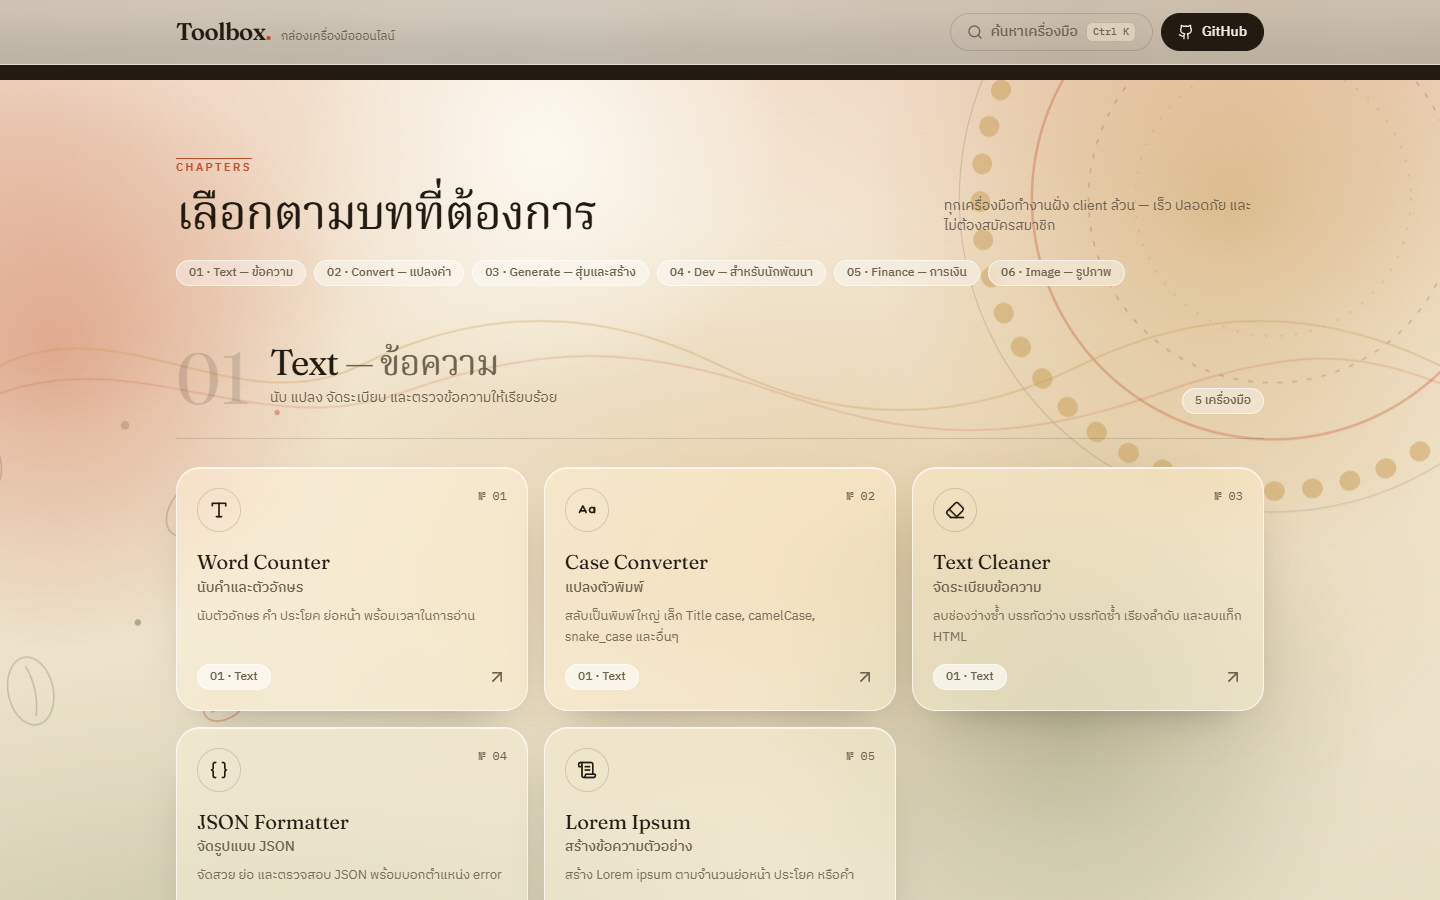
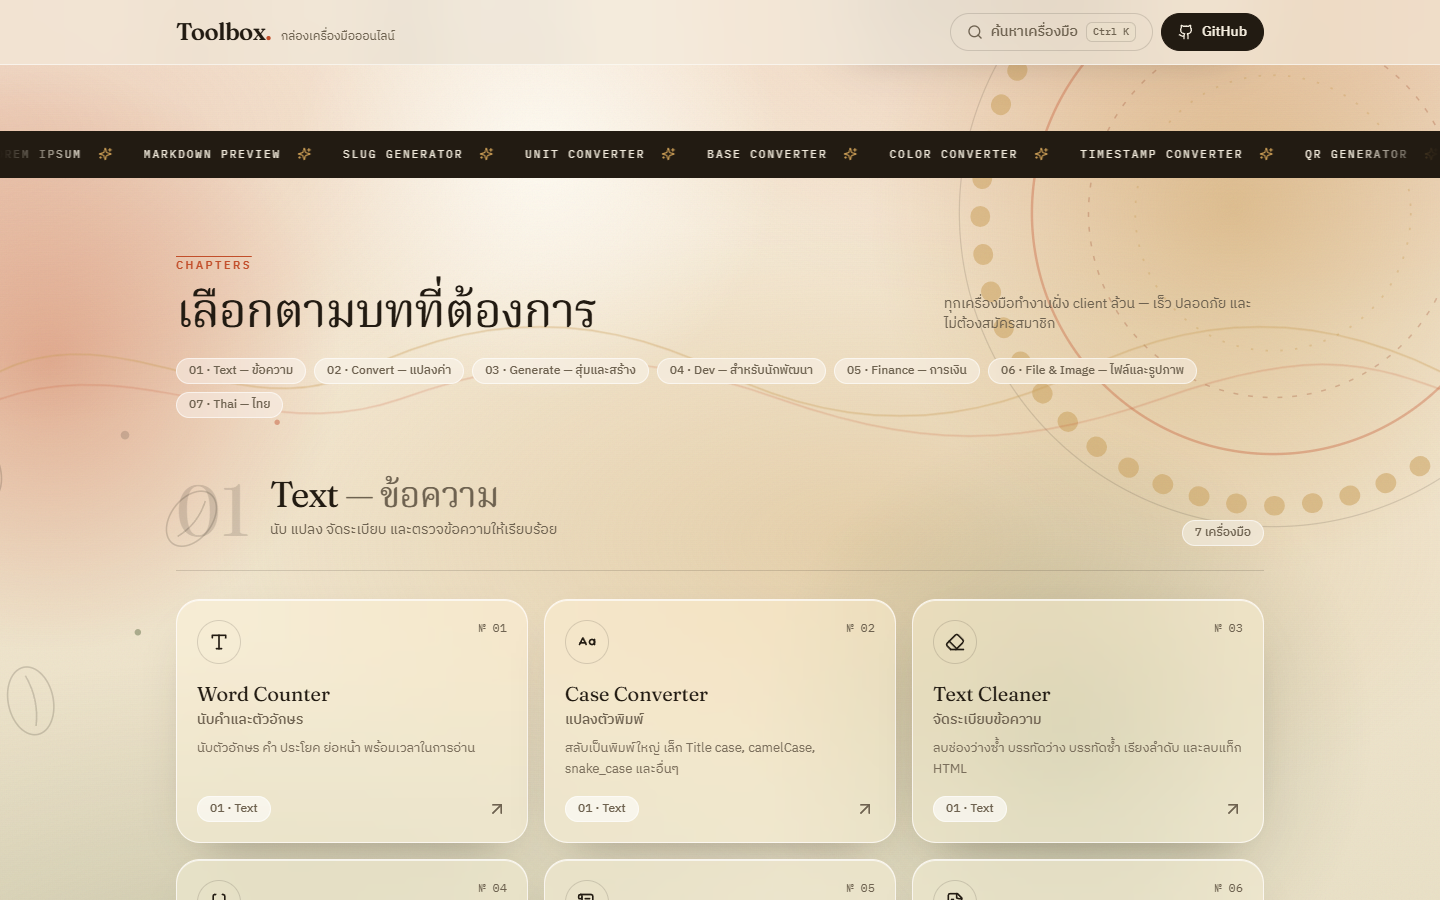
docs: README refresh - 42 tools / 7 chapters / PWA
Updated counts, chapter table, full tool list, PWA sections and fresh real screenshots.

diff --git a/README.md b/README.md
@@ -4,7 +4,7 @@
 
 ### Everyday tools, ครบจบในกล่องเดียว
 
-**26 เครื่องมือใช้บ่อยสำหรับงานประจำวันและสาย dev** — ทำงานในเบราว์เซอร์ของคุณ 100%
+**42 เครื่องมือใช้บ่อย — งานประจำวัน สาย dev และสายไทย** — ทำงานในเบราว์เซอร์ของคุณ 100%
 ไม่มีเซิร์ฟเวอร์ · ไม่มีบัญชี · ไม่มี tracking · ข้อมูลไม่ออกจากเครื่อง
 
 [![Deploy](https://github.com/Poshzz/toolbox/actions/workflows/deploy.yml/badge.svg?branch=main)](https://github.com/Poshzz/toolbox/actions/workflows/deploy.yml)
@@ -14,6 +14,7 @@
 ![Vite](https://img.shields.io/badge/Vite-6-646cff?style=flat-square&logo=vite&logoColor=white)
 ![Tailwind CSS](https://img.shields.io/badge/Tailwind_CSS-v4-38bdf8?style=flat-square&logo=tailwindcss&logoColor=white)
 ![Privacy](https://img.shields.io/badge/privacy-100%25_client--side-65724b?style=flat-square)
+![PWA](https://img.shields.io/badge/PWA-offline_ready-65724b?style=flat-square)
 ![License: MIT](https://img.shields.io/badge/License-MIT-yellow.svg?style=flat-square)
 
 <br/>
@@ -36,21 +37,23 @@
 | ⌨ **Keyboard-first** | กด `Ctrl` + `K` ค้นหาเครื่องมือได้จากทุกหน้า |
 | 🇹🇭 **ไทย–อังกฤษ** | UI สองภาษา ทั้งชื่อเครื่องมือและคำอธิบาย |
 | 🧩 **One-file tools** | เพิ่มเครื่องมือใหม่ = 1 ไฟล์ + 1 entry — ที่เหลืออัปเดตอัตโนมัติ |
+| 📲 **PWA / Offline** | ติดตั้งเป็นแอปได้ และใช้ต่อได้แม้ไม่มีเน็ต — Service Worker แคชเฉพาะไฟล์ของเว็บเอง |
 
-## 🧰 เครื่องมือ — 26 tools · 6 chapters
+## 🧰 เครื่องมือ — 42 tools · 7 chapters
 
 | # | Chapter | เครื่องมือ | |
 |:-:|:--|:--|:-:|
-| 01 | **Text** · ข้อความ | Word Counter · Case Converter · Text Cleaner · JSON Formatter · Lorem Ipsum | 5 |
+| 01 | **Text** · ข้อความ | Word Counter · Case Converter · Text Cleaner · JSON Formatter · Lorem Ipsum · Markdown Preview · Slug Generator | 7 |
 | 02 | **Convert** · แปลงค่า | Unit Converter · Base Converter · Color Converter · Timestamp Converter | 4 |
-| 03 | **Generate** · สุ่มและสร้าง | QR Generator · Password Generator · UUID Generator · Random Picker | 4 |
-| 04 | **Dev** · สำหรับนักพัฒนา | Base64 · Hash Generator · URL Tools · JWT Decoder · Diff Checker · Regex Tester | 6 |
-| 05 | **Finance** · การเงิน | Percentage Calculator · Interest Calculator · Bill Split · Loan Calculator | 4 |
-| 06 | **Image** · รูปภาพ | Image Resizer · Image Converter · Image Info | 3 |
-| | | **รวม** | **26** |
+| 03 | **Generate** · สุ่มและสร้าง | QR Generator · Password Generator · UUID Generator · Random Picker · Color Palette · Gradient Generator · Dice Roller | 7 |
+| 04 | **Dev** · สำหรับนักพัฒนา | Base64 · Hash Generator · URL Tools · JWT Decoder · Diff Checker · Regex Tester · Cron Parser · HTML Entity · JSON ↔ CSV · JSON ↔ YAML · Code Formatter | 11 |
+| 05 | **Finance** · การเงิน | Percentage Calculator · Interest Calculator · Bill Split · Loan Calculator · VAT Calculator | 5 |
+| 06 | **File & Image** · ไฟล์และรูปภาพ | Image Resizer · Image Converter · Image Info · Favicon Generator · PDF Merge & Split | 5 |
+| 07 | **Thai** · ไทย | Thai Date & Era · Thai Numbers · Thai ID Checker | 3 |
+| | | **รวม** | **42** |
 
 <details>
-<summary><b>▸ ดูรายละเอียดเครื่องมือทั้ง 26 ตัว — Full list</b></summary>
+<summary><b>▸ ดูรายละเอียดเครื่องมือทั้ง 42 ตัว — Full list</b></summary>
 
 <br/>
 
@@ -60,6 +63,8 @@
 - **Text Cleaner** — จัดระเบียบข้อความ เช่น ลบช่องว่างซ้ำ บรรทัดว่าง
 - **JSON Formatter** — จัดสวย/ย่อ/ตรวจสอบ JSON พร้อมบอกตำแหน่ง error
 - **Lorem Ipsum** — สร้างข้อความตัวอย่างสำหรับงานออกแบบ
+- **Markdown Preview** — เขียน Markdown พร้อมพรีวิวสด และก๊อป HTML ได้
+- **Slug Generator** — แปลงข้อความเป็น slug รองรับภาษาไทย
 
 **02 · Convert — แปลงค่า**
 - **Unit Converter** — แปลงหน่วยวัด ความยาว น้ำหนัก อุณหภูมิ ฯลฯ
@@ -72,6 +77,9 @@
 - **Password Generator** — สุ่มรหัสผ่านที่ปลอดภัยตามเงื่อนไข
 - **UUID Generator** — สร้าง UUID v4
 - **Random Picker** — สุ่มเลข เต๋า จับฉลาก พร้อมช่วงตัวเลขกว้าง ๆ
+- **Color Palette** — สร้างชุดสีกลมกลืน ล็อกสีที่ชอบได้
+- **Gradient Generator** — สร้าง CSS gradient พร้อมโค้ดไปใช้ได้เลย
+- **Dice Roller** — ทอยลูกเต๋า d4–d20 หลายลูก และโยนหัวก้อย
 
 **04 · Dev — สำหรับนักพัฒนา**
 - **Base64** — เข้ารหัส/ถอดรหัส Base64 (รองรับ Unicode)
@@ -80,17 +88,30 @@
 - **JWT Decoder** — ถอดและตรวจ JWT (HS256) ในเบราว์เซอร์
 - **Diff Checker** — เทียบข้อความทีละบรรทัด แบบ side-by-side
 - **Regex Tester** — ทดสอบ Regex พร้อมไฮไลต์ผลที่ตรง
+- **Cron Parser** — อธิบาย cron เป็นภาษาคน + เวลารันถัดไป 5 ครั้ง
+- **HTML Entity** — เข้ารหัส/ถอดรหัส HTML entities พร้อมตารางอ้างอิง
+- **JSON ↔ CSV** — แปลงสองทาง พร้อม BOM สำหรับ Excel
+- **JSON ↔ YAML** — แปลงสองทาง (subset มาตรฐานที่ใช้บ่อย)
+- **Code Formatter** — จัดสวย/ย่อ SQL · XML · CSS
 
 **05 · Finance — การเงิน**
 - **Percentage Calculator** — คำนวณเปอร์เซ็นต์ทุกรูปแบบที่ใช้บ่อย
 - **Interest Calculator** — ดอกเบี้ยเงินฝาก/เงินกู้ ทั้งแบบง่ายและทบต้น
 - **Bill Split** — หารบิลพร้อมทิป แสดงยอดต่อคน
 - **Loan Calculator** — ค่างวดผ่อนต่อเดือนจากยอดเงินและดอกเบี้ย
+- **VAT Calculator** — บวก/ถอด VAT พร้อมปัดสตางค์ถูกต้อง
 
-**06 · Image — รูปภาพ**
+**06 · File & Image — ไฟล์และรูปภาพ**
 - **Image Resizer** — ย่อ/ขยายรูปในเบราว์เซอร์ ไม่มีการอัปโหลด
 - **Image Converter** — แปลงไฟล์ PNG / JPEG / WebP
 - **Image Info** — ขนาด มิติ และข้อมูลไฟล์ของรูป
+- **Favicon Generator** — อัปรูปเดียวได้ favicon ครบขนาด + ไฟล์ .ico
+- **PDF Merge & Split** — รวม/แยกหน้า PDF ในเครื่อง ไม่มีการอัปโหลด
+
+**07 · Thai — ไทย**
+- **Thai Date & Era** — แปลง พ.ศ.↔ค.ศ. นับวัน อายุ วันที่ไทยแบบเต็ม
+- **Thai Numbers** — ตัวเลขเป็นคำอ่านไทย · เลขไทย · บาท/สตางค์
+- **Thai ID Checker** — ตรวจความถูกต้องเลขบัตรประชาชน 13 หลัก
 
 </details>
 
@@ -98,7 +119,7 @@
 
 | เลือกตามบท — Chapters | หน้าเครื่องมือ — Tool page |
 |:--:|:--:|
-| <img src=".github/assets/chapters.png" alt="หน้ารวมบทและเครื่องมือ" width="100%" /> | <img src=".github/assets/tool-page.png" alt="หน้า JSON Formatter" width="100%" /> |
+| <img src=".github/assets/chapters.png" alt="หน้ารวมบทและเครื่องมือ" width="100%" /> | <img src=".github/assets/tool-page.png" alt="หน้า Thai Date & Era" width="100%" /> |
 
 ## ⚙ Tech Stack
 
@@ -107,8 +128,9 @@
 | **Core** | React 19 · TypeScript 5.7 · Vite 6 |
 | **Styling** | Tailwind CSS v4 + ธีมกาแฟที่ออกแบบเอง (glass + parallax engine เขียนสด) |
 | **Routing** | react-router-dom v7 — HashRouter ใช้ได้ทุก subpath ของ GitHub Pages |
-| **Libraries** | qrcode · lucide-react · Web Crypto API · Canvas API |
+| **Libraries** | qrcode · pdf-lib · lucide-react · Web Crypto API · Canvas API |
 | **Fonts** | Self-hosted ทั้งหมด — Fraunces · IBM Plex · Noto Serif Thai (SIL OFL) ไม่มี request ไป Google |
+| **PWA / Offline** | vite-plugin-pwa (Workbox) — ติดตั้งเป็นแอป และใช้งานได้แม้ออฟไลน์ |
 | **Backend** | ไม่มี. ศูนย์. Zero. 🎉 |
 | **Deploy** | GitHub Actions → GitHub Pages (อัตโนมัติทุก push ขึ้น `main`) |
 
@@ -121,10 +143,10 @@ src/
 ├── data/
 │   ├── tools.ts        # registry: CHAPTERS + TOOLS (จุดเดียวที่ต้องแก้เวลาเพิ่มเครื่องมือ)
 │   └── site.ts         # ชื่อเว็บ + repo URL
-├── lib/                # utils · md5 (เขียนเอง verify เทียบ node:crypto) · diff (LCS)
+├── lib/                # ตรรกะแยกไฟล์ 18 ไฟล์ — md5 · diff · thai-date · thai-numbers · vat · minimd · ico · pdf · cron · …
 └── pages/
     ├── Home.tsx
-    └── tools/          # 1 ไฟล์ต่อ 1 เครื่องมือ (lazy-load ทั้งหมด)
+    └── tools/          # 1 ไฟล์ต่อ 1 เครื่องมือ — 42 ไฟล์ (lazy-load ทั้งหมด)
 ```
 
 ## 🚀 เริ่มพัฒนา
@@ -153,7 +175,7 @@ npm run preview    # ลองของจริงจาก dist/
   name: 'My Tool',
   th: 'เครื่องมือของฉัน',
   desc: 'อธิบายสั้น ๆ ว่าเครื่องมือนี้ทำอะไร',
-  chapter: 'dev',            // text | convert | generate | dev | finance | image
+  chapter: 'dev',            // text | convert | generate | dev | finance | image | thai
   icon: Wand2,               // ไอคอนจาก lucide-react
   keywords: 'คำค้น ภาษาไทย english',
   component: lazy(() => import('../pages/tools/MyTool')),
@@ -166,6 +188,8 @@ npm run preview    # ลองของจริงจาก dist/
 > ไม่มีการอัปโหลด ไม่มี cookie ไม่มี analytics และไม่มี backend ให้ข้อมูลไหลไปถึง
 
 อยากพิสูจน์? เปิด **DevTools → Network** แล้วลองใช้เครื่องมือต่าง ๆ — จะไม่เห็น request ที่ส่งข้อมูลของคุณออกไปเลย และตัวเว็บเองก็ไม่เรียกไฟล์จากภายนอกแม้แต่ชิ้นเดียว (ฟอนต์ self-host ทั้งหมด)
+
+เว็บยัง**ติดตั้งเป็นแอป (PWA)** ได้ และเปิดใช้ต่อได้แม้ไม่มีเน็ต — Service Worker แคชเฉพาะไฟล์ของเว็บเอง ไม่มีข้อมูลใด ๆ วิ่งออกนอกเครื่องเช่นเดิม
 
 ## 🙏 เครดิต
 
